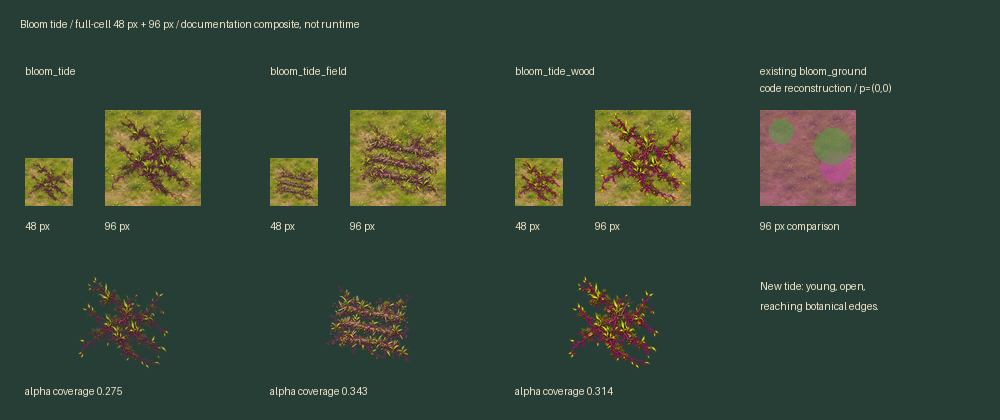
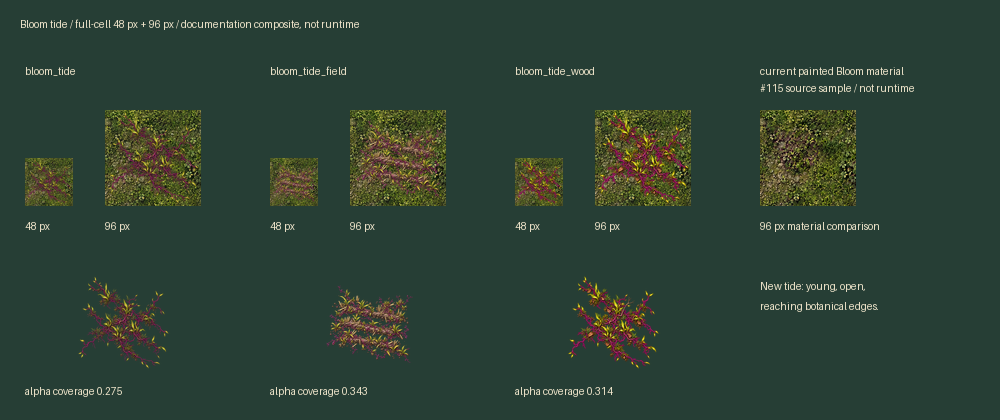
Compare young tide art against current painted era ground

diff --git a/docs/art/livewire/bloom-tide/preview.py b/docs/art/livewire/bloom-tide/preview.py
@@ -10,7 +10,7 @@ for name in ['bloom_tide','bloom_tide_field','bloom_tide_wood']:
 (here/'spec.json').write_text(json.dumps(specs,indent=2)+'\n')
 board=Image.new('RGB',(1000,420),'#263e35'); d=ImageDraw.Draw(board)
 d.text((20,18),'Bloom tide / full-cell 48 px + 96 px / documentation composite, not runtime',fill='#eee4ca')
-grass=Image.open('art/rendered/meadow-ground.png').convert('RGBA').crop((100,100,500,500))
+grass=Image.open('art/rendered/era-ground/livewire-healthy.png').convert('RGBA').crop((100,100,500,500))
 for i,s in enumerate(specs):
  x=25+i*245; d.text((x,65),s['id'],fill='#eee4ca'); im=Image.open(s['path'].replace('res://',''))
  for dx,size in [(0,48),(80,96)]:
@@ -19,14 +19,8 @@ for i,s in enumerate(specs):
  # A bare-alpha view makes sparse coverage and creeping edges reviewable.
  icon=im.resize((96,96),Image.Resampling.LANCZOS); board.paste(icon,(x+50,275),icon)
  d.text((x,385),'alpha coverage '+str(s['alpha_over_8_fraction']),fill='#eee4ca')
-x=760; d.text((x,65),'existing bloom_ground',fill='#eee4ca'); d.text((x,82),'code reconstruction / p=(0,0)',fill='#eee4ca')
-tile=grass.resize((96,96),Image.Resampling.LANCZOS)
-layer=Image.new('RGBA',(96,96)); ld=ImageDraw.Draw(layer); ld.rectangle((0,0,95,95),fill=(158,56,148,128))
-tile.alpha_composite(layer)
-for i in range(3):
- h=(i*37)%97; cx=48+((h%19)-9)*3; cy=48+(((h*7)%19)-9)*3; r=(4+h%4)*3
- layer=Image.new('RGBA',(96,96)); ld=ImageDraw.Draw(layer); color=(84,158,64,140) if h%2==0 else (191,74,158,153)
- ld.ellipse((cx-r,cy-r,cx+r,cy+r),fill=color); tile.alpha_composite(layer)
-board.paste(tile,(x,110)); d.text((x,220),'96 px comparison',fill='#eee4ca')
+x=760; d.text((x,65),'current painted Bloom material',fill='#eee4ca'); d.text((x,82),'#115 source sample / not runtime',fill='#eee4ca')
+tile=Image.open('art/rendered/era-ground/livewire-bloom.png').convert('RGBA').crop((100,100,500,500)).resize((96,96),Image.Resampling.LANCZOS)
+board.paste(tile,(x,110)); d.text((x,220),'96 px material comparison',fill='#eee4ca')
 d.text((x,280),'New tide: young, open,',fill='#eee4ca'); d.text((x,300),'reaching botanical edges.',fill='#eee4ca')
 board.save(here/'native-review.png')

diff --git a/docs/art/livewire/bloom-tide/README.md b/docs/art/livewire/bloom-tide/README.md
@@ -2,11 +2,11 @@
 
 Three original transparent PNGs and Godot-generated imports in `art/rendered/`: `bloom_tide`, `bloom_tide_field`, `bloom_tide_wood`. [Full-cell regions and source hashes](spec.json), [native 48/96 px comparison](native-review.png), individual prompts and reproducible `preview.py` accompany the group. Built-in imagegen originals are unmodified.
 
-Retain the Bloom's magenta/sickly-green family from the patch placeholder and approved `bloom_sign_1` painting, with thinner younger growth and transparent creeping edges. Grass has loose root strands; former Field adds broken furrow/straw remnants; former wood adds dry leaves and a small twig. Visible alpha >8 covers only 28–34% of each canvas, leaving the existing ground visible. Earlier wood attempts retained blurred halos and were rejected; the final variant edits the accepted transparent grass source.
+Retain the Bloom's magenta/sickly-green family from the historic patch palette, approved `bloom_sign_1` painting and current #115 terrain family, with thinner younger growth and transparent creeping edges. Grass has loose root strands; former Field adds broken furrow/straw remnants; former wood adds dry leaves and a small twig. Visible alpha >8 covers only 28–34% of each canvas, leaving the existing ground visible. Earlier wood attempts retained blurred halos and were rejected; the final variant edits the accepted transparent grass source.
 
 ## Design review and Claude hooks
 
-Checked against [Art Direction](../../../design-system/05-art-direction.md), [terrain layering](../../../design-system/22-terrain-kit.md), and the [requested slot](../../requests.md): overhead ground perspective, upper-left light, crisp tiny botanical shapes, no square ground plate, mature bulb or new palette/lore. All remain 1×1 cells. The board composites these at native 48 px over a meadow sample and shows isolated alpha; the old `bloom_ground` comparison is explicitly a reconstruction of `bloom_look.gd` at p=(0,0), not an engine capture. The four mature patch tiles are still code placeholders and are not replaced by this group.
+Checked against [Art Direction](../../../design-system/05-art-direction.md), [terrain layering](../../../design-system/22-terrain-kit.md), and the [requested slot](../../requests.md): overhead ground perspective, upper-left light, crisp tiny botanical shapes, no square ground plate, mature bulb or new palette/lore. All remain 1×1 cells. The board composites these at native 48 px over a source sample of current Livewire healthy ground and shows isolated alpha. A labeled current #115 Bloom material source sample compares the dense mature family; it is not an engine capture or a claim about shader sampling scale. Current main already has #115's painted Bloom ground and sample decals. These separate young tide sources do not replace those existing resources in this art-only group.
 
 Use full source rectangles in `spec.json`, mapped to 48×48 cells; do not tight-crop/fill the gaps or add a violet rectangle beneath them. The former-ground variants are separate source art for Claude to select under the existing/future presentation contract. This PR adds no mappings, overlay rules, tile IDs, RNG or save changes. Ground art only: no changes to the coming overlay view, `tide_look.gd`, UI or tests; no over-road, burnt-ground or overgrown-building assets.
 
